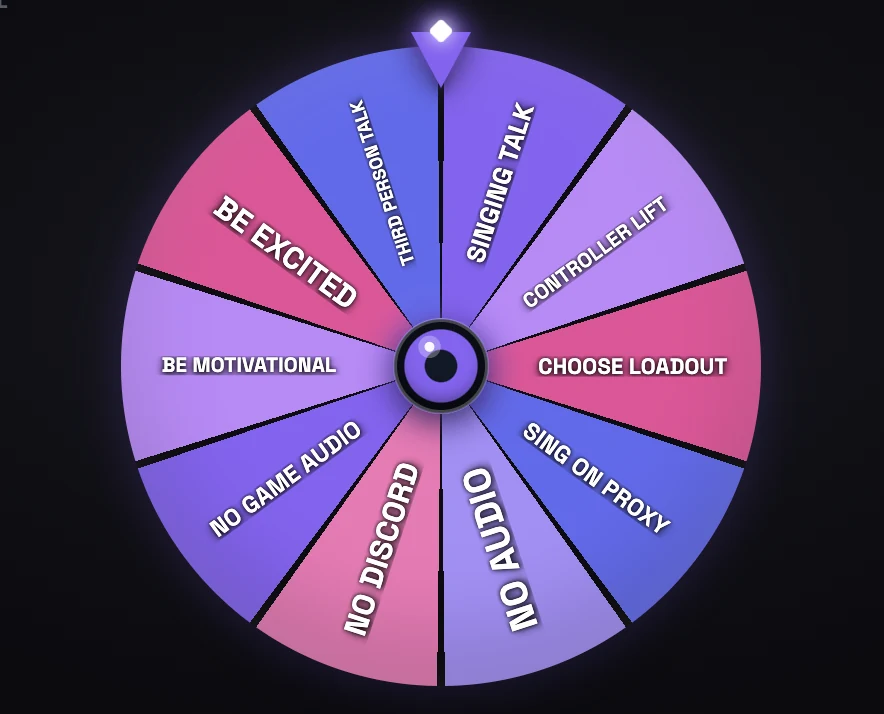
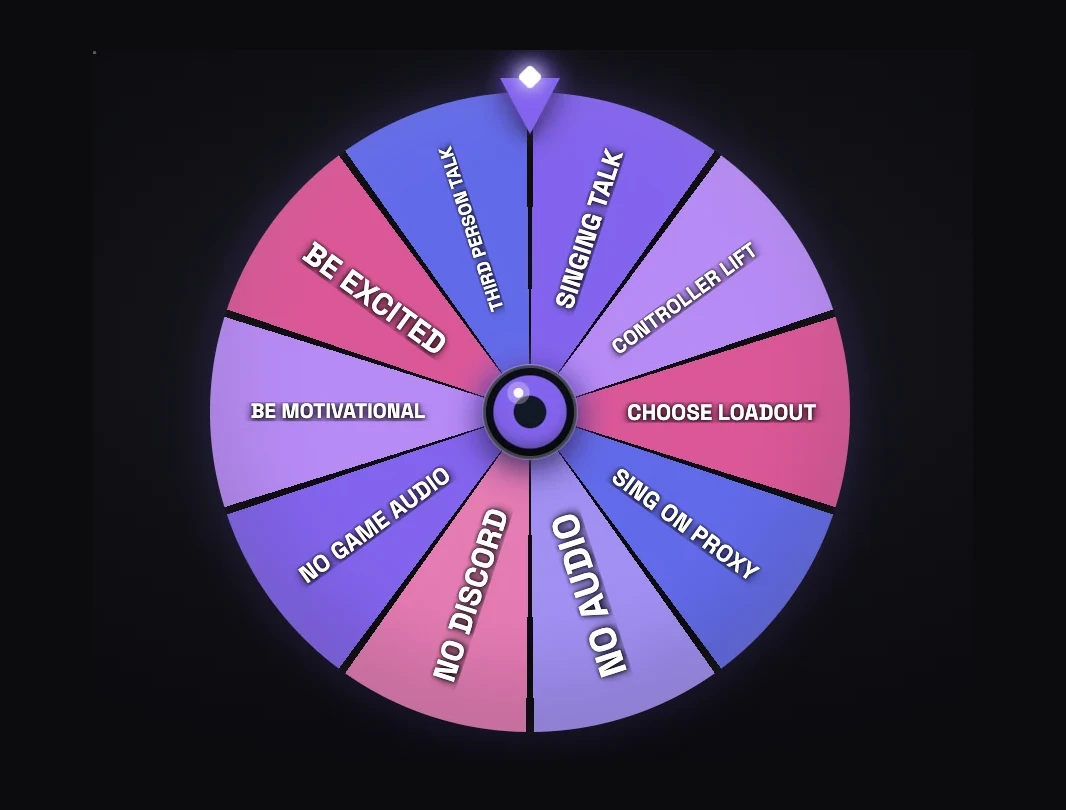
Updated for new release

Changed region(s): [[0.1222, 0.0, 0.8857, 0.986], [0.3665, 0.6779, 0.3971, 0.7395], [0.2443, 0.5854, 0.3054, 0.6162]]

diff --git a/README.md b/README.md
@@ -37,165 +37,111 @@ It's made by **PixieOnTV**, a variety gaming streamer who got tired of multi-pla
 
 <table>
 <tr>
-<td width="50%">
+<td width="50%" valign="top">
+<img src="screenshots/quick-admin.webp" alt="PixelyChat dashboard with quick admin tools" width="100%">
 
-**Dashboard & Quick Admin**
-Live viewer counts, message activity, and uptime for every platform — plus delete messages, block users, and edit stream title/category for Twitch, Kick, and YouTube without leaving the app.
-
-<img src="screenshots/quick-admin.webp" alt="PixelyChat dashboard with quick admin tools">
-
+**Dashboard & Quick Admin**<br>Viewer counts, activity and uptime for every platform. Delete messages, block users and edit your stream title without leaving the app.
 </td>
-<td width="50%">
+<td width="50%" valign="top">
+<img src="screenshots/accounts.webp" alt="Account connection screen" width="100%">
 
-**Account Setup**
-Log in to each platform once — PixelyChat picks up your username and channel details automatically. No stream keys, no copying channel IDs.
-
-<img src="screenshots/accounts.webp" alt="Account connection screen">
-
+**Account Setup**<br>Log in to each platform once. No stream keys, no copying channel IDs.
 </td>
 </tr>
 <tr>
-<td width="50%">
+<td width="50%" valign="top">
+<img src="screenshots/dashboard.webp" alt="PixelyChat dashboard chat" width="100%">
 
-**Unified Dashboard Chat**
-All platforms in one feed with filters, send-to-platform, and live activity counts.
-
-<img src="screenshots/dashboard.webp" alt="PixelyChat dashboard chat">
-
+**Unified Dashboard Chat**<br>All four platforms in one feed, with filters, sending to any platform and live activity counts.
 </td>
-<td width="50%">
+<td width="50%" valign="top">
+<img src="screenshots/translate.webp" alt="Translation settings" width="100%">
 
-**Live Translation**
-Foreign-language chat is translated into your language automatically — no API key, no signup, original text kept alongside it.
-
-<img src="screenshots/translate.webp" alt="Translation settings">
-
+**Live Translation**<br>Chat in other languages is translated into yours automatically. No API key, no signup.
 </td>
 </tr>
 <tr>
-<td width="50%">
+<td width="50%" valign="top">
+<img src="screenshots/tts.webp" alt="Text-to-speech settings" width="100%">
 
-**Text-to-Speech**
-Chat read aloud in a natural voice. Control speed and volume, ignore specific users or bots, and cap it so a raid doesn't leave TTS reading for five minutes straight.
-
-<img src="screenshots/tts.webp" alt="Text-to-speech settings">
-
+**Text-to-Speech**<br>Chat read aloud in natural voices, with volume, speed, ignore lists and raid protection.
 </td>
-<td width="50%">
+<td width="50%" valign="top">
+<img src="screenshots/chat-styles.webp" alt="Chat Style Library with installable community chat styles" width="100%">
 
-**Chat Styles & Style Library**
-Panel, bubbles, cards, neon, and more built in — or install free community chat styles from the Style Library with one click. Toggle avatars, timestamps, and platform icons, and set colors and transparency.
-
-<img src="screenshots/chat-styles.webp" alt="Chat Style Library with installable community chat styles">
-
+**Chat Styles & Style Library**<br>Built-in chat styles plus free community styles you install with one click.
 </td>
 </tr>
 <tr>
-<td width="50%">
+<td width="50%" valign="top">
+<img src="screenshots/overlays.webp" alt="Overlay URL generator" width="100%">
 
-**One-Click OBS/Streamlabs Overlays**
-Copy one URL, paste it into a Browser Source, done. Every style change updates the overlay live.
-
-<img src="screenshots/overlays.webp" alt="Overlay URL generator">
-
+**One-Click OBS/Streamlabs Overlays**<br>Copy one URL into a Browser Source. Every style change updates live.
 </td>
-<td width="50%">
+<td width="50%" valign="top">
+<img src="screenshots/on-screen-chat.webp" alt="On-Screen Chat with Twitch, YouTube, Kick and TikTok messages on top of a game" width="100%">
 
-**On-Screen Chat**
-Read chat and events on top of your game with just one monitor. Only you see it — it stays off your stream — and your mouse and keyboard stay with the game.
-
-<img src="screenshots/on-screen-chat.webp" alt="On-Screen Chat with Twitch, YouTube, Kick and TikTok messages on top of a game">
-
+**On-Screen Chat**<br>Chat and events on top of your game with one monitor. Only you see it, your viewers don't.
 </td>
 </tr>
 <tr>
-<td width="50%">
+<td width="50%" valign="top">
+<img src="screenshots/alerts.webp" alt="PixelyChat themed on-screen alerts setup" width="100%">
 
-**On-Screen Alerts**
-Follows, subs, gifts, raids, and more with custom themes, sounds, and media — works across Twitch, YouTube, Kick, and TikTok.
-
-<img src="screenshots/alerts.webp" alt="PixelyChat themed on-screen alerts setup">
-
+**On-Screen Alerts**<br>Follows, subs, gifts, raids and more, with themes, sounds and media on all four platforms.
 </td>
-<td width="50%">
+<td width="50%" valign="top">
+<img src="screenshots/rewards.webp" alt="PixelyChat Rewards tab with custom Channel Point and TikTok gift rewards" width="100%">
 
-**Custom Rewards for Channel Points & TikTok Gifts**
-Turn Twitch/Kick Channel Point redemptions and TikTok gifts into their own on-screen reactions — visuals, sounds, and read-aloud text, no scripting required. Build from bundled presets or upload your own media, and PixelyChat queues everything so a redemption burst doesn't overlap on screen.
-
-<img src="screenshots/rewards.webp" alt="PixelyChat Rewards tab with custom Channel Point and TikTok gift rewards">
-
+**Rewards for Channel Points & TikTok Gifts**<br>Turn redemptions and gifts into on-screen reactions with visuals, sounds and read-aloud text.
 </td>
 </tr>
 <tr>
-<td width="50%">
+<td width="50%" valign="top">
+<img src="screenshots/widgets.webp" alt="PixelyChat Widgets editor with stream goals, stats, activity feeds, announcements, and Now Playing" width="100%">
 
-**Stream Widgets for Every Platform**
-Add goals, live stats, activity feeds, announcements, and Now Playing to your stream — all from one widget editor built for multistreaming.
-
-<img src="screenshots/widgets.webp" alt="PixelyChat Widgets editor with stream goals, stats, activity feeds, announcements, and Now Playing">
-
+**Stream Widgets**<br>Goals, live stats, activity feeds, announcements and Now Playing, all in one editor.
 </td>
-<td width="50%">
+<td width="50%" valign="top">
+<img src="screenshots/visual-shoutout.webp" alt="A Visual Shoutout card with a clip playing on stream" width="100%">
 
-**Visual Shoutout, Starting Soon & Be Right Back**
-Shout out a creator with !so and a card with one of their Twitch clips pops up on stream. Starting Soon and Be Right Back screens play music and clips from your own channel while you're away.
-
-<img src="screenshots/visual-shoutout.webp" alt="A Visual Shoutout card with a clip playing on stream">
-
+**Visual Shoutout & Break Screens**<br>!so shows a card with a creator's clip. Starting Soon and Be Right Back play music and your own clips.
 </td>
 </tr>
 <tr>
-<td width="50%">
+<td width="50%" valign="top">
+<img src="screenshots/spin-wheel.webp" alt="PixelyChat Spin Wheel" width="100%">
 
-**Spin Wheel Action Widget**
-Create reusable wheel templates with custom results and descriptions, position them independently for horizontal and vertical layouts, then trigger a spin from the Dashboard, Bot Commands, Alerts, or Rewards.
-
-<img src="screenshots/spin-wheel.webp" alt="PixelyChat Spin Wheel action widget with configurable templates and stream preview">
-
+**Spin Wheel**<br>Reusable wheels, spun from the Dashboard, a chat command, an alert or a reward.
 </td>
-<td width="50%">
+<td width="50%" valign="top">
+<img src="screenshots/stream-deck.webp" alt="Stream Deck keys for PixelyChat Action Widgets" width="100%">
 
-**Stream Deck & Streamer.bot**
-Start Action Widgets from Elgato Stream Deck keys with live status on every key, and run your own Streamer.bot actions when stream events happen on any platform.
-
-<img src="screenshots/stream-deck.webp" alt="Stream Deck keys for PixelyChat Action Widgets">
-
+**Stream Deck & Streamer.bot**<br>Start Action Widgets from Stream Deck keys, and run Streamer.bot actions on stream events.
 </td>
 </tr>
 <tr>
-<td width="50%">
+<td width="50%" valign="top">
+<img src="screenshots/bot-commands.webp" alt="PixelyChat chat bot custom command builder" width="100%">
 
-**A Chat Bot That's Actually Fun**
-!so, !8ball, !dadjoke, !iq, and more — ready to go the moment you turn it on, each with several randomized replies. Set cooldowns and access levels, then let greetings, shoutouts, and follow/sub/raid alerts fire automatically.
-
-<img src="screenshots/bot-commands.webp" alt="PixelyChat chat bot custom command builder">
-
+**A Chat Bot That's Actually Fun**<br>!so, !8ball, !dadjoke and more out of the box, plus your own commands, cooldowns and greetings.
 </td>
-<td width="50%">
+<td width="50%" valign="top">
+<img src="screenshots/bot-ai-chat.webp" alt="PixelyChat AI chat bot settings" width="100%">
 
-**AI Chat With Personality**
-@mention your bot and it replies in character — pick Friendly, Funny, Sassy, Hype, or write your own personality. Hosted AI replies are included out of the box, with optional provider keys for supported services.
-
-<img src="screenshots/bot-ai-chat.webp" alt="PixelyChat AI chat bot settings">
-
+**AI Chat With Personality**<br>@mention your bot and it replies in character: Friendly, Funny, Sassy, Hype or your own.
 </td>
 </tr>
 <tr>
-<td width="50%">
+<td width="50%" valign="top">
+<img src="screenshots/companion.webp" alt="PixelyChat Companion editor with avatar, reactions, voice, and stream preview" width="100%">
 
-**Companion — Your AI Co-Host**
-Give your stream a character that can react alongside you with a 2D avatar, voice, captions, and event-driven reactions. Companion shares the same personality as AI Chat and uses local responses first where possible to keep AI usage low.
-
-<img src="screenshots/companion.webp" alt="PixelyChat Companion editor with avatar, reactions, voice, and stream preview">
-
+**Companion, Your AI Co-Host**<br>A 2D avatar with voice and captions that reacts to your stream.
 </td>
-<td width="50%">
+<td width="50%" valign="top">
+<img src="screenshots/companion-interaction.webp" alt="Companion Interaction settings with talk hotkey and speech recognition" width="100%">
 
-**Talk to Your Companion**
-Press a hotkey, say something, and your Companion answers out loud on stream. Speech recognition runs on your own PC.
-
-<img src="screenshots/companion-interaction.webp" alt="Companion Interaction settings with talk hotkey and speech recognition">
-
+**Talk to Your Companion**<br>Press a hotkey, say something, and your Companion answers out loud. Speech recognition runs on your PC.
 </td>
 </tr>
 </table>
